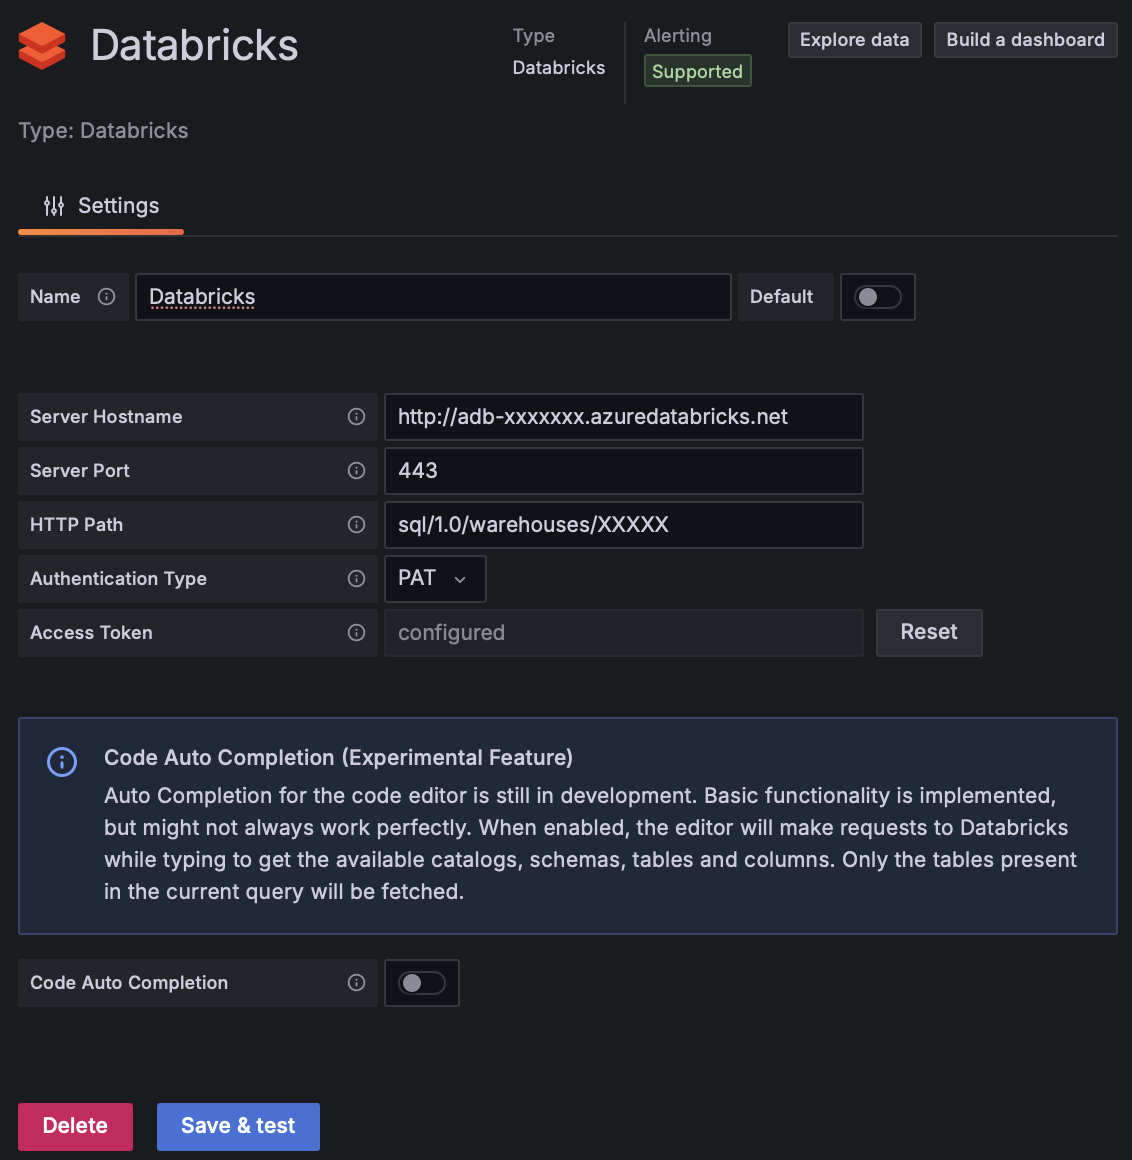
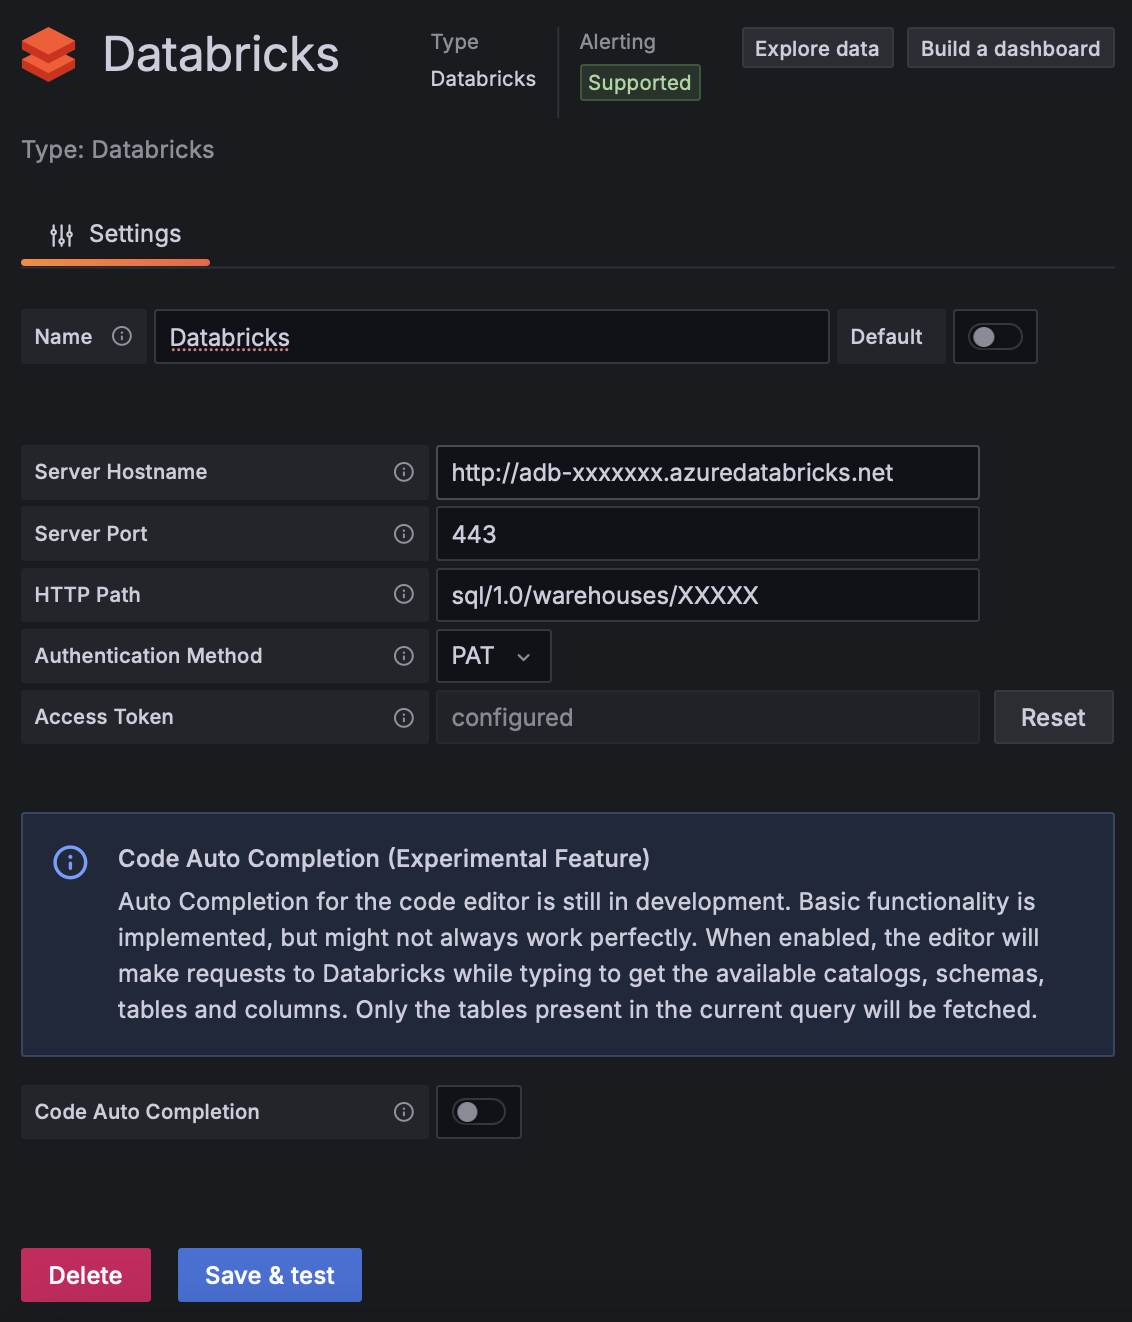
:recycle: Refactor: change variable naming & update readme

diff --git a/src/components/ConfigEditor/ConfigEditor.tsx b/src/components/ConfigEditor/ConfigEditor.tsx
@@ -118,13 +118,13 @@ export class ConfigEditor extends PureComponent<Props, State> {
     });
   };
 
-  onConnectionMethodChange = (value: string | undefined) => {
+  onAuthenticationMethodChange = (value: string | undefined) => {
     const { onOptionsChange, options } = this.props;
     onOptionsChange({
       ...options,
       jsonData: {
         ...options.jsonData,
-        connectionMethod: value,
+        authenticationMethod: value,
       },
     });
   }
@@ -162,10 +162,10 @@ export class ConfigEditor extends PureComponent<Props, State> {
                   onChange={this.onPathChange}
               />
             </InlineField>
-            <InlineField label="Authentication Type" labelWidth={30} tooltip="PAT (Personal Access Token) or M2M (Machine to Machine) OAuth Authentication">
+            <InlineField label="Authentication Method" labelWidth={30} tooltip="PAT (Personal Access Token) or M2M (Machine to Machine) OAuth Authentication">
               <Select
                   onChange={({ value }) => {
-                    this.onConnectionMethodChange(value);
+                    this.onAuthenticationMethodChange(value);
                   }}
                   options={[
                     {
@@ -177,11 +177,11 @@ export class ConfigEditor extends PureComponent<Props, State> {
                       label: 'M2M Oauth',
                     },
                   ]}
-                  value={jsonData.connectionMethod || 'dsn'}
+                  value={jsonData.authenticationMethod || 'dsn'}
                   backspaceRemovesValue
               />
             </InlineField>
-            {jsonData.connectionMethod === 'm2m' ? (
+            {jsonData.authenticationMethod === 'm2m' ? (
                 <>
                   <InlineField label="Client ID" labelWidth={30} tooltip="Databricks Service Principal Client ID">
                     <Input

diff --git a/src/types.ts b/src/types.ts
@@ -26,7 +26,7 @@ export interface MyDataSourceOptions extends DataSourceJsonData {
   port?: string;
   path?: string;
   autoCompletion?: boolean;
-  connectionMethod?: string;
+  authenticationMethod?: string;
   clientId?: string;
 }
 

diff --git a/pkg/plugin/plugin.go b/pkg/plugin/plugin.go
@@ -36,11 +36,11 @@ var (
 )
 
 type DatasourceSettings struct {
-	Path             string `json:"path"`
-	Hostname         string `json:"hostname"`
-	Port             string `json:"port"`
-	ConnectionMethod string `json:"connectionMethod"`
-	ClientId         string `json:"clientId"`
+	Path                 string `json:"path"`
+	Hostname             string `json:"hostname"`
+	Port                 string `json:"port"`
+	AuthenticationMethod string `json:"authenticationMethod"`
+	ClientId             string `json:"clientId"`
 }
 
 // NewSampleDatasource creates a new datasource instance.
@@ -61,7 +61,7 @@ func NewSampleDatasource(_ context.Context, settings backend.DataSourceInstanceS
 		port = portInt
 	}
 
-	if datasourceSettings.ConnectionMethod == "m2m" {
+	if datasourceSettings.AuthenticationMethod == "m2m" {
 		authenticator := m2m.NewAuthenticator(
 			datasourceSettings.ClientId,
 			settings.DecryptedSecureJSONData["clientSecret"],
@@ -93,7 +93,7 @@ func NewSampleDatasource(_ context.Context, settings backend.DataSourceInstanceS
 				databricksDB: databricksDB,
 			}, nil
 		}
-	} else if datasourceSettings.ConnectionMethod == "dsn" || datasourceSettings.ConnectionMethod == "" {
+	} else if datasourceSettings.AuthenticationMethod == "dsn" || datasourceSettings.AuthenticationMethod == "" {
 
 		connector, err := dbsql.NewConnector(
 			dbsql.WithAccessToken(settings.DecryptedSecureJSONData["token"]),

diff --git a/README.md b/README.md
@@ -54,22 +54,24 @@ grafana/grafana
 * Click the `+ Add data source` button in the top header.
 * Select Databricks.
 
-To configure the plugin use the values provided under JDBC/ODBC in the advanced options of the Databricks Cluster (or SQL Warehouse) and create a personal access token for Databricks.
+To configure the plugin use the values provided under JDBC/ODBC in the advanced options of the Databricks Cluster (or SQL Warehouse) and the the Credentials according to the chosen Authentication Method.
+
+You can either authenticate the plugin using a [Personal Access Token (PAT)](https://docs.databricks.com/en/dev-tools/auth/pat.html) or via [M2M OAuth](https://docs.databricks.com/en/dev-tools/auth/oauth-m2m.html) using a Service Principal Client ID and Client Secret.
 
 ![img_1.png](img/config_editor.png)
 
 Available configuration fields are as follows:
 
-| Name                 | Description                                                                                                  |
-|----------------------|--------------------------------------------------------------------------------------------------------------|
-| Server Hostname      | Databricks Server Hostname (without http). i.e. `XXX.cloud.databricks.com`                                   |
-| Server Port          | Databricks Server Port (default `443`)                                                                       |
-| HTTP Path            | HTTP Path value for the existing cluster or SQL warehouse. i.e. `sql/1.0/endpoints/XXX`                      |
-| Authentication Type  | PAT (Personal Access Token) or M2M (Machine to Machine) OAuth Authentication                                 |
-| Client ID            | Databricks Service Principal Client ID. (only if M2M OAuth is chosen as Auth Method)                         |
-| Client Secret        | Databricks Service Principal Client Secret. (only if M2M OAuth is chosen as Auth Method)                     |
-| Access Token         | Personal Access Token for Databricks. (only if PAT is chosen as Auth Method)                                 |
-| Code Auto Completion | If enabled the SQL editor will fetch catalogs/schemas/tables/columns from Databricks to provide suggestions. |
+| Name                  | Description                                                                                                  |
+|-----------------------|--------------------------------------------------------------------------------------------------------------|
+| Server Hostname       | Databricks Server Hostname (without http). i.e. `XXX.cloud.databricks.com`                                   |
+| Server Port           | Databricks Server Port (default `443`)                                                                       |
+| HTTP Path             | HTTP Path value for the existing cluster or SQL warehouse. i.e. `sql/1.0/endpoints/XXX`                      |
+| Authentication Method | PAT (Personal Access Token) or M2M (Machine to Machine) OAuth Authentication                                 |
+| Client ID             | Databricks Service Principal Client ID. (only if M2M OAuth is chosen as Auth Method)                         |
+| Client Secret         | Databricks Service Principal Client Secret. (only if M2M OAuth is chosen as Auth Method)                     |
+| Access Token          | Personal Access Token for Databricks. (only if PAT is chosen as Auth Method)                                 |
+| Code Auto Completion  | If enabled the SQL editor will fetch catalogs/schemas/tables/columns from Databricks to provide suggestions. |
 
 ### Supported Macros
 
